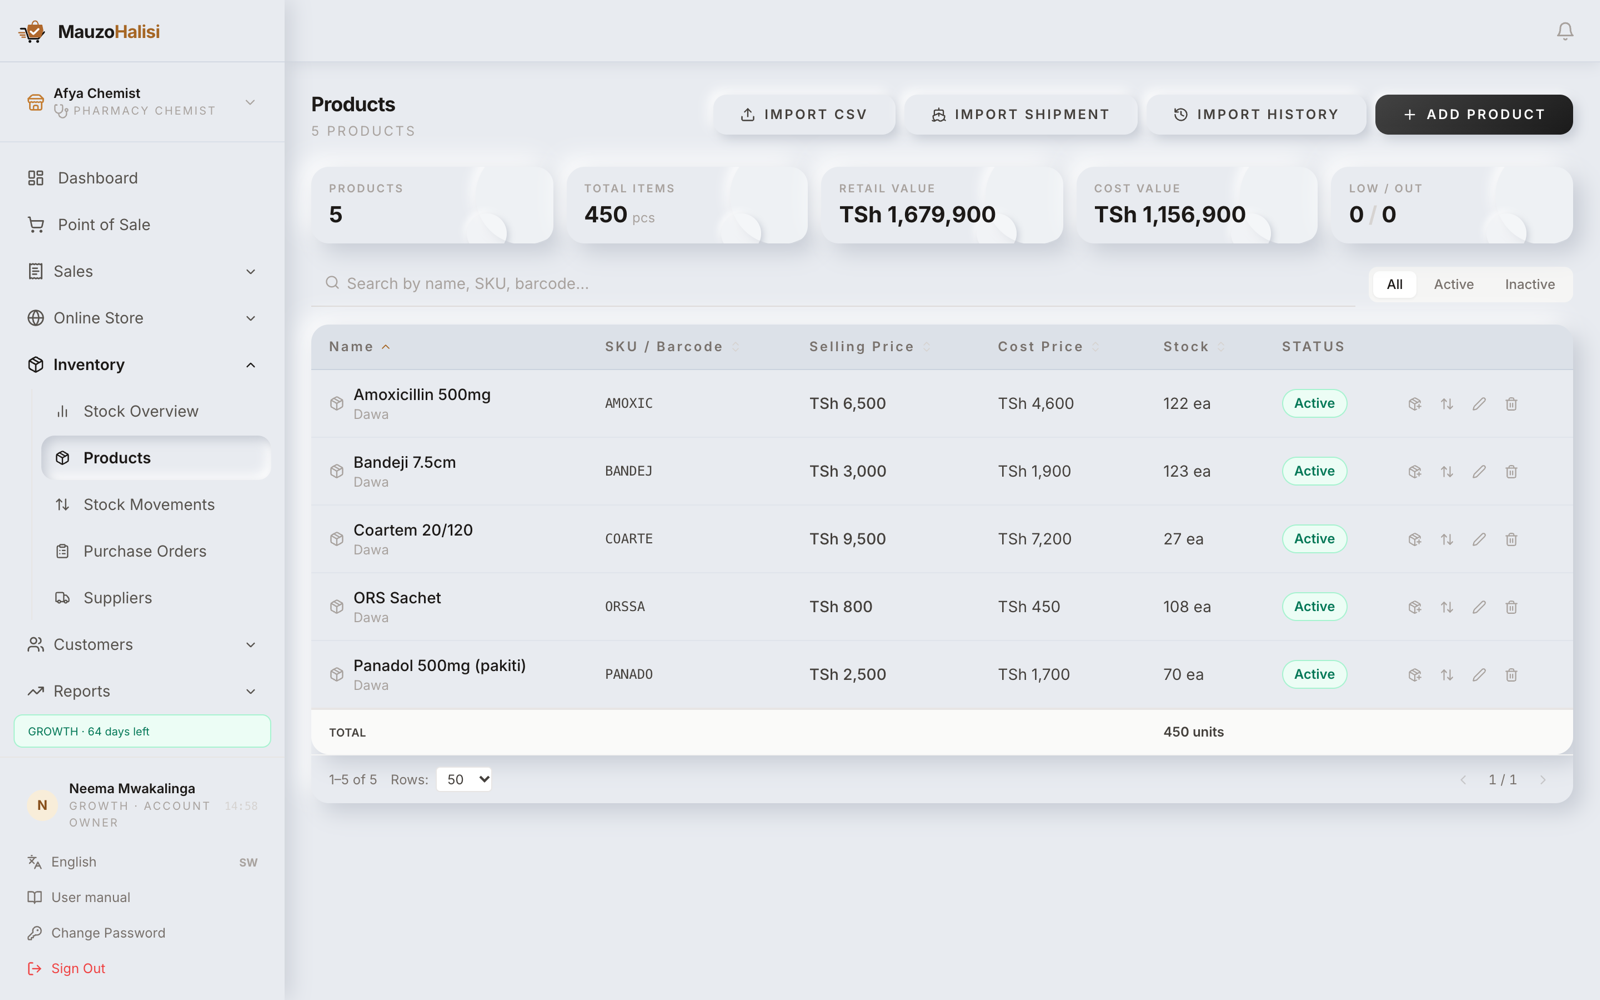
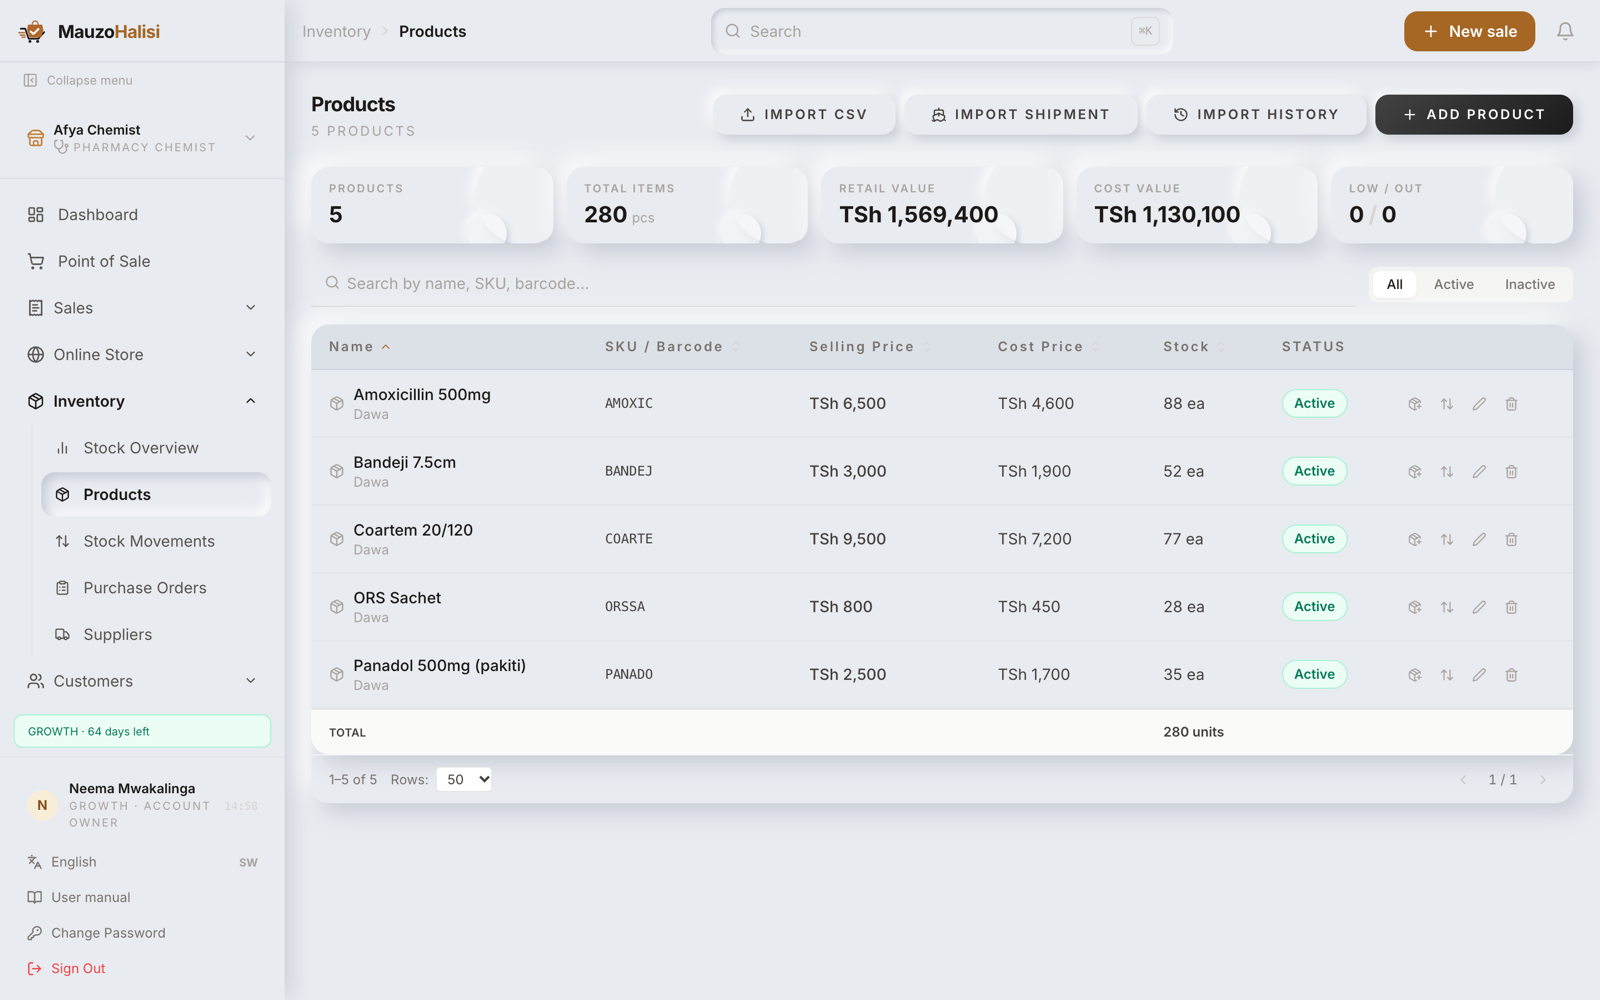
Centre the search, and say where you are
The top bar is three tracks rather than a row of flexing children, so the
search sits on the middle of the content whatever the breadcrumb says and
however many controls gather on the right. A flex row cannot promise that,
and the middle track is given a width of its own because an auto track
collapses to its content and left the box 128px wide.

To its left, the page you are on: the section in plain text, the page
weighted, a chevron between. It reads from the same page list the command
palette searches, which was moved out of the palette into lib/pages for the
purpose. Two lists would eventually disagree, and a page findable under one
name and labelled with another is worse than no breadcrumb.

Longest match wins, so /pos/debts is Debts rather than Point of Sale and a
detail route resolves to its list. The crumb hides below md, where the width
is worth more to the search.

The manual's screenshots were retaken, since all fourteen of them carry the
top bar.

Verified: the search centre lands exactly on the header centre at 416px
wide, every route resolves to the right crumb in both languages, the crumb
is hidden and nothing overflows at 390px.

diff --git a/web/src/lib/pages.ts b/web/src/lib/pages.ts
@@ -1,0 +1,95 @@
+/**
+ * Every page in the app, named once.
+ *
+ * Two things need this list and must agree: the command palette, which
+ * searches it, and the breadcrumb in the top bar, which says where you are.
+ * Keeping it in one place means a page cannot be findable under one name and
+ * labelled with another.
+ *
+ * The gates mirror the sidebar, so search never offers a page the sidebar
+ * hides. The breadcrumb ignores them: you are already on the page, and
+ * refusing to name it would help nobody.
+ */
+
+export interface PageDef {
+  path: string;
+  label: string;
+  /** The section it sits under, shown before the page name in the crumb. */
+  group?: string;
+  owner?: boolean;
+  types?: string[];
+}
+
+type T = (key: string) => string;
+
+export function allPages(t: T): PageDef[] {
+  return [
+    { path: '/dashboard',                 label: t('nav.dashboard') },
+    { path: '/pos',                       label: t('nav.pos') },
+    { path: '/account',                   label: t('nav.management') },
+
+    { path: '/pos/transactions',          label: t('nav.sales'),            group: t('nav.sales') },
+    { path: '/pos/debts',                 label: t('nav.debts'),            group: t('nav.sales') },
+    { path: '/pos/voids',                 label: t('nav.voidedSales'),      group: t('nav.sales') },
+    { path: '/invoices/new',              label: 'New invoice',             group: 'Invoices' },
+    { path: '/invoices',                  label: 'Invoices',                group: t('nav.sales') },
+    { path: '/orders',                    label: 'Online Orders',           group: t('nav.sales') },
+    { path: '/consignment',               label: t('nav.consignment'),      group: t('nav.sales') },
+
+    { path: '/inventory/products',        label: t('nav.products'),         group: t('nav.inventory') },
+    { path: '/inventory/stock',           label: t('nav.stockMovements'),   group: t('nav.inventory') },
+    { path: '/inventory/purchase-orders', label: t('nav.purchaseOrders'),   group: t('nav.inventory') },
+    { path: '/inventory/suppliers',       label: 'Suppliers',               group: t('nav.inventory') },
+    { path: '/inventory/recipes',         label: t('nav.recipes'),          group: t('nav.inventory') },
+    { path: '/inventory',                 label: t('nav.stockOverview'),    group: t('nav.inventory') },
+
+    { path: '/customers',                 label: t('nav.customers') },
+    { path: '/loyalty',                   label: t('nav.loyalty'),          group: t('nav.customers') },
+
+    { path: '/expenses',                  label: t('nav.expenses') },
+    { path: '/loans',                     label: 'Loans' },
+    { path: '/billing',                   label: t('billing.title') },
+
+    { path: '/reports/sales',             label: t('nav.sales'),            group: t('nav.reports') },
+    { path: '/reports/calendar',          label: t('nav.salesCalendar'),    group: t('nav.reports') },
+    { path: '/reports/products',          label: t('nav.products'),         group: t('nav.reports') },
+    { path: '/reports/staff',             label: t('nav.bySeller'),         group: t('nav.reports') },
+    { path: '/reports/inventory',         label: t('nav.stock'),            group: t('nav.reports') },
+
+    { path: '/admin/users',               label: t('nav.usersStaff'),       group: t('nav.management'), owner: true },
+    { path: '/admin/shop',                label: t('nav.shopSettings'),     group: t('nav.management'), owner: true },
+    { path: '/admin/business',            label: t('nav.businessSettings'), group: t('nav.management'), owner: true },
+    { path: '/admin/tax-rules',           label: t('nav.taxRules'),         group: t('nav.management'), owner: true },
+    { path: '/admin/shops',               label: t('nav.shops'),            group: t('nav.management'), owner: true },
+    { path: '/branches',                  label: 'Branches',                group: t('nav.management'), owner: true },
+    { path: '/storefront',                label: 'Online Store',            group: t('nav.management'), owner: true },
+    { path: '/timeclock',                 label: t('nav.timeclock'),        group: t('nav.management') },
+
+    // The business-type screens: one tap for the trade that uses them, and
+    // absent for everyone else, exactly as in the sidebar.
+    { path: '/kds',                 label: t('nav.kitchenDisplay'), types: ['RESTAURANT', 'CAFE_QSR', 'BAR_NIGHTCLUB'] },
+    { path: '/hotel',               label: t('nav.hotelRooms'),     types: ['HOTEL_GUESTHOUSE'] },
+    { path: '/repairs/work-orders', label: t('nav.workOrders'),     types: ['REPAIR_WORKSHOP'] },
+    { path: '/appointments',        label: t('nav.appointments'),   types: ['SALON_SPA', 'CLINIC_MEDICAL'] },
+  ];
+}
+
+/** The subset this person, in this shop, is allowed to be offered. */
+export function pagesFor(t: T, role: string, businessType?: string): PageDef[] {
+  const isOwner = role === 'ACCOUNT_OWNER';
+  return allPages(t).filter(p =>
+    (!p.owner || isOwner) && (!p.types || (businessType && p.types.includes(businessType))));
+}
+
+/**
+ * Where you are, for the top bar.
+ *
+ * Longest match wins, so /pos/debts is "Debts" rather than "Point of Sale",
+ * and a detail route such as /invoices/abc123 still resolves to its list.
+ */
+export function breadcrumbFor(pathname: string, t: T): PageDef | null {
+  const hits = allPages(t)
+    .filter(p => pathname === p.path || pathname.startsWith(p.path + '/'))
+    .sort((a, b) => b.path.length - a.path.length);
+  return hits[0] ?? null;
+}

diff --git a/web/src/components/search/CommandPalette.tsx b/web/src/components/search/CommandPalette.tsx
@@ -8,6 +8,7 @@ import {
 } from 'lucide-react';
 import api from '../../api/client';
 import { useAuthStore } from '../../store/authStore';
+import { pagesFor } from '../../lib/pages';
 
 /**
  * One box that reaches everything.
@@ -60,55 +61,6 @@ function pushRecent(e: RecentEntry) {
     const next = [e, ...readRecent().filter(r => r.key !== e.key)].slice(0, MAX_RECENT);
     localStorage.setItem(RECENT_KEY, JSON.stringify(next));
   } catch { /* private window */ }
-}
-
-/**
- * Every page the palette can reach, with who is allowed to see it.
- *
- * Deliberately a flat list rather than a read of the sidebar: the sidebar
- * groups things for browsing, and search has no use for groups. The gates
- * mirror it, so nothing becomes reachable here that is hidden there.
- */
-interface PageDef { path: string; label: string; group: string; owner?: boolean; types?: string[] }
-
-function pagesFor(t: (k: string) => string, role: string, businessType: string | undefined): PageDef[] {
-  const isOwner = role === 'ACCOUNT_OWNER';
-  const all: PageDef[] = [
-    { path: '/dashboard',               label: t('nav.dashboard'),       group: '' },
-    { path: '/pos',                     label: t('nav.pos'),             group: '' },
-    { path: '/pos/transactions',        label: t('nav.sales'),           group: t('nav.sales') },
-    { path: '/pos/debts',               label: t('nav.debts'),           group: t('nav.sales') },
-    { path: '/pos/voids',               label: t('nav.voidedSales'),     group: t('nav.sales') },
-    { path: '/invoices',                label: 'Invoices',               group: t('nav.sales') },
-    { path: '/orders',                  label: 'Online Orders',          group: t('nav.sales') },
-    { path: '/inventory',               label: t('nav.stockOverview'),   group: t('nav.inventory') },
-    { path: '/inventory/products',      label: t('nav.products'),        group: t('nav.inventory') },
-    { path: '/inventory/stock',         label: t('nav.stockMovements'),  group: t('nav.inventory') },
-    { path: '/inventory/purchase-orders', label: t('nav.purchaseOrders'), group: t('nav.inventory') },
-    { path: '/inventory/suppliers',     label: 'Suppliers',              group: t('nav.inventory') },
-    { path: '/customers',               label: t('nav.customers'),       group: t('nav.customers') },
-    { path: '/loyalty',                 label: t('nav.loyalty'),         group: t('nav.customers') },
-    { path: '/expenses',                label: t('nav.expenses'),        group: '' },
-    { path: '/loans',                   label: 'Loans',                  group: '' },
-    { path: '/reports/sales',           label: t('nav.sales'),           group: t('nav.reports') },
-    { path: '/reports/calendar',        label: t('nav.salesCalendar'),   group: t('nav.reports') },
-    { path: '/reports/products',        label: t('nav.products'),        group: t('nav.reports') },
-    { path: '/reports/staff',           label: t('nav.bySeller'),        group: t('nav.reports') },
-    { path: '/reports/inventory',       label: t('nav.stock'),           group: t('nav.reports') },
-    { path: '/billing',                 label: t('nav.management'),      group: '', owner: true },
-    { path: '/admin/users',             label: t('nav.usersStaff'),      group: t('nav.management'), owner: true },
-    { path: '/admin/shop',              label: t('nav.shopSettings'),    group: t('nav.management'), owner: true },
-    { path: '/admin/business',          label: t('nav.businessSettings'), group: t('nav.management'), owner: true },
-    { path: '/timeclock',               label: t('nav.timeclock'),       group: t('nav.management') },
-    // The business-type screens. One tap for the trade that uses them, and
-    // absent for everyone else, exactly as in the sidebar.
-    { path: '/kds',                     label: t('nav.kitchenDisplay'),  group: '', types: ['RESTAURANT', 'CAFE_QSR', 'BAR_NIGHTCLUB'] },
-    { path: '/hotel',                   label: t('nav.hotelRooms'),      group: '', types: ['HOTEL_GUESTHOUSE'] },
-    { path: '/repairs/work-orders',     label: t('nav.workOrders'),      group: '', types: ['REPAIR_WORKSHOP'] },
-    { path: '/appointments',            label: t('nav.appointments'),    group: '', types: ['SALON_SPA', 'CLINIC_MEDICAL'] },
-  ];
-  return all.filter(p =>
-    (!p.owner || isOwner) && (!p.types || (businessType && p.types.includes(businessType))));
 }
 
 const money = (n: number) => `TZS ${Math.round(n).toLocaleString('en-US')}`;
@@ -232,7 +184,7 @@ export default function CommandPalette() {
     }
 
     const pages = pagesFor(t, user?.role ?? '', shops.find(s => s.id === shopId)?.businessType)
-      .filter(p => match(p.label) || match(p.group))
+      .filter(p => match(p.label) || match(p.group ?? ''))
       .slice(0, needle ? 5 : 6)
       .map(p => ({
         key: 'page:' + p.path, kind: 'page' as const, title: p.label, detail: p.group || undefined,

diff --git a/web/src/components/layout/Topbar.tsx b/web/src/components/layout/Topbar.tsx
@@ -1,8 +1,10 @@
 import { useState, useEffect, useRef } from 'react';
-import { Menu, Bell, X, Package, Clock, Search } from 'lucide-react';
+import { Menu, Bell, X, Package, Clock, Search, ChevronRight } from 'lucide-react';
 import { useQuery } from '@tanstack/react-query';
 import { useTranslation } from 'react-i18next';
+import { useLocation } from 'react-router-dom';
 import { QuickSaleButton } from '../pos/QuickSale';
+import { breadcrumbFor } from '../../lib/pages';
 import api from '../../api/client';
 import { useAuthStore } from '../../store/authStore';
 import { enablePush, pushSupported, permission as pushPermission } from '../../utils/push';
@@ -39,6 +41,8 @@ const isMac = typeof navigator !== 'undefined' && /Mac|iPhone|iPad/.test(navigat
 
 export default function Topbar({ onMenuClick }: Props) {
   const { t } = useTranslation();
+  const { pathname } = useLocation();
+  const crumb = breadcrumbFor(pathname, t);
   const { shopId } = useAuthStore();
   const [open, setOpen] = useState(false);
   const [readIds, setReadIds] = useState<Set<string>>(getReadIds);
@@ -84,16 +88,35 @@ export default function Topbar({ onMenuClick }: Props) {
   }
 
   return (
-    <header className="h-14 flex items-center gap-4 px-4 flex-shrink-0" style={{ background: '#E8EBF0', borderBottom: '1px solid rgba(163,177,198,0.25)', boxShadow: '0 3px 12px rgba(197,202,211,0.5)' }}>
-      <button onClick={onMenuClick} className="lg:hidden p-1.5 text-stone-500 hover:text-stone-900">
-        <Menu size={20} />
-      </button>
+    // Three tracks rather than a row of flexing children: the search stays on
+    // the middle of the screen whatever the breadcrumb says and however many
+    // controls sit on the right, which a flex row cannot promise.
+    <header className="h-14 grid grid-cols-[1fr_minmax(0,26rem)_1fr] items-center gap-3 px-4 flex-shrink-0" style={{ background: '#E8EBF0', borderBottom: '1px solid rgba(163,177,198,0.25)', boxShadow: '0 3px 12px rgba(197,202,211,0.5)' }}>
+      <div className="flex min-w-0 items-center gap-2">
+        <button onClick={onMenuClick} className="lg:hidden p-1.5 text-stone-500 hover:text-stone-900">
+          <Menu size={20} />
+        </button>
+
+        {/* Where you are. The section is a link back to nothing in
+            particular, so it stays plain text and only the page is weighted. */}
+        {crumb && (
+          <nav aria-label="Breadcrumb" className="hidden min-w-0 items-center gap-1.5 text-sm md:flex">
+            {crumb.group && crumb.group !== crumb.label && (
+              <>
+                <span className="truncate text-stone-400">{crumb.group}</span>
+                <ChevronRight size={13} className="shrink-0 text-stone-300" />
+              </>
+            )}
+            <span className="truncate font-semibold text-stone-900" aria-current="page">{crumb.label}</span>
+          </nav>
+        )}
+      </div>
 
       {/* The palette's own control. A shortcut nobody is told about is a
           shortcut nobody uses, so the key is printed on the button. */}
       <button
         onClick={() => window.dispatchEvent(new Event('mh:open-search'))}
-        className="flex min-w-0 flex-1 items-center gap-2 rounded-xl px-3 py-2 text-left text-sm text-stone-400 transition-colors hover:text-stone-600 sm:max-w-sm"
+        className="flex w-full min-w-0 items-center gap-2 rounded-xl px-3 py-2 text-left text-sm text-stone-400 transition-colors hover:text-stone-600"
         style={{ boxShadow: 'inset 2px 2px 5px #c5cad3, inset -2px -2px 5px #ffffff' }}
       >
         <Search size={15} className="shrink-0" />
@@ -103,8 +126,7 @@ export default function Topbar({ onMenuClick }: Props) {
         </kbd>
       </button>
 
-      <div className="flex-1 sm:flex-none" />
-
+      <div className="flex min-w-0 items-center justify-end gap-3">
       <QuickSaleButton />
 
       {/* Bell + dropdown */}
@@ -186,6 +208,7 @@ export default function Topbar({ onMenuClick }: Props) {
             )}
           </div>
         )}
+      </div>
       </div>
     </header>
   );
